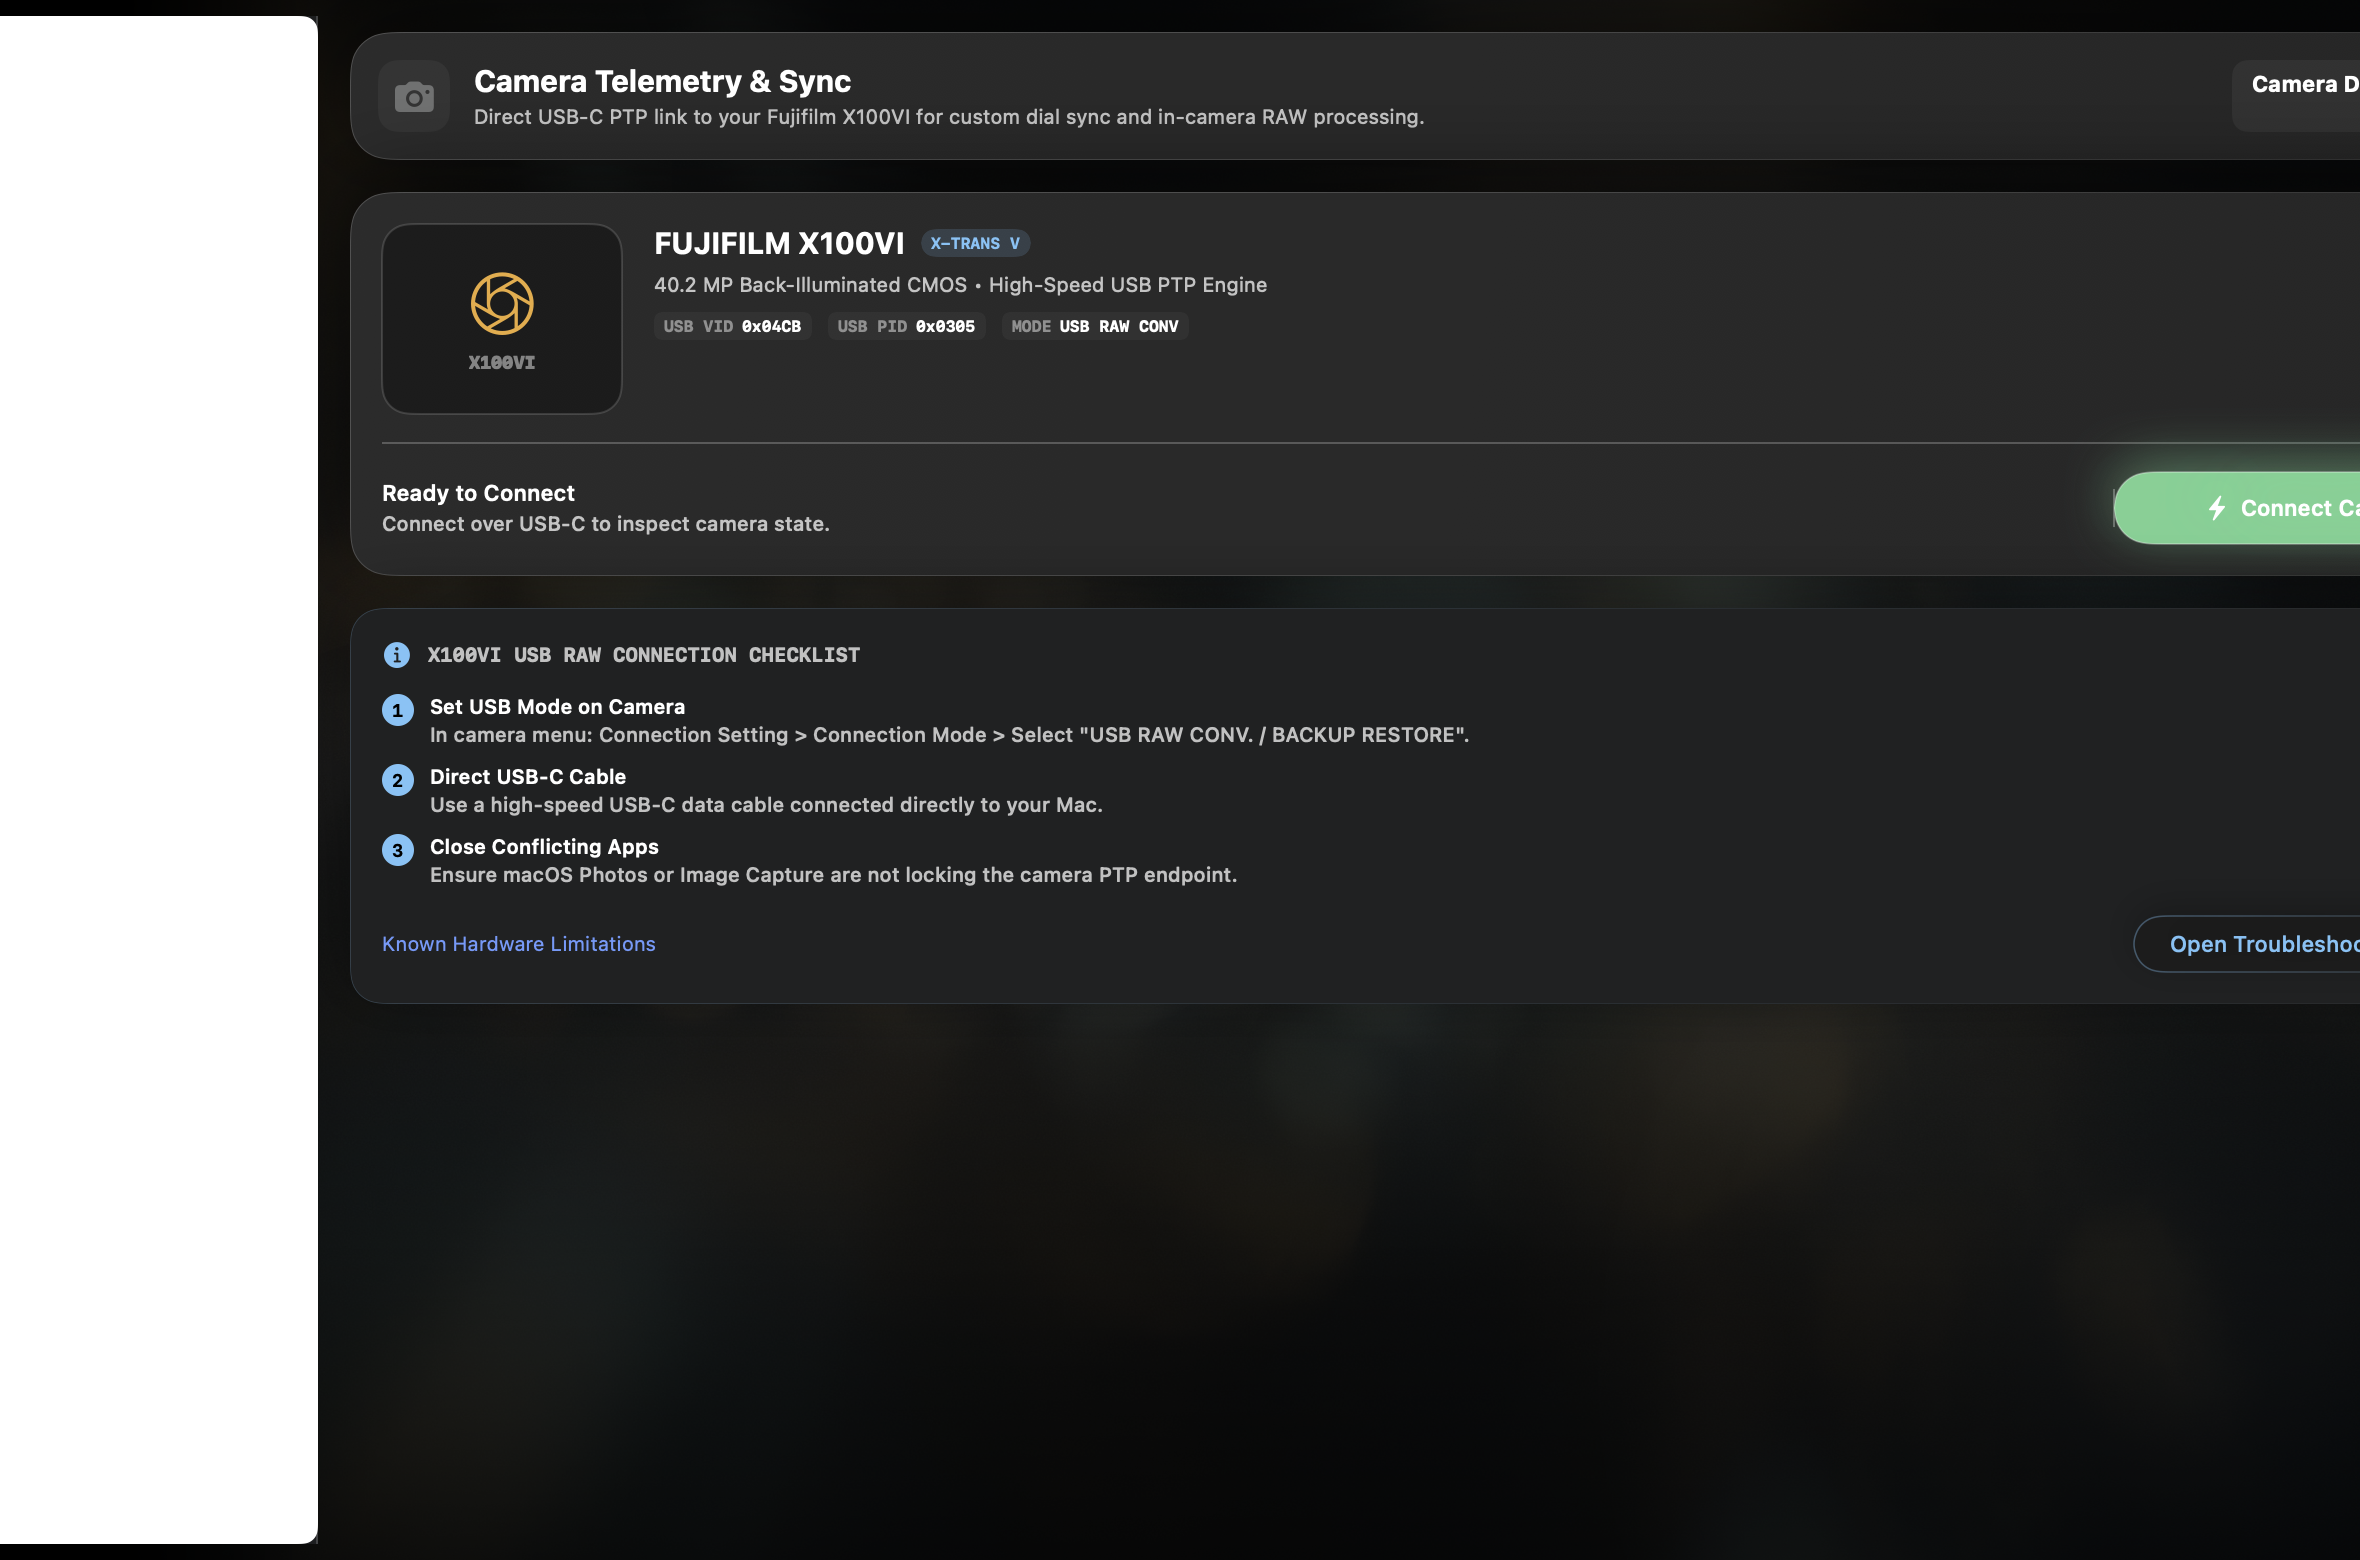
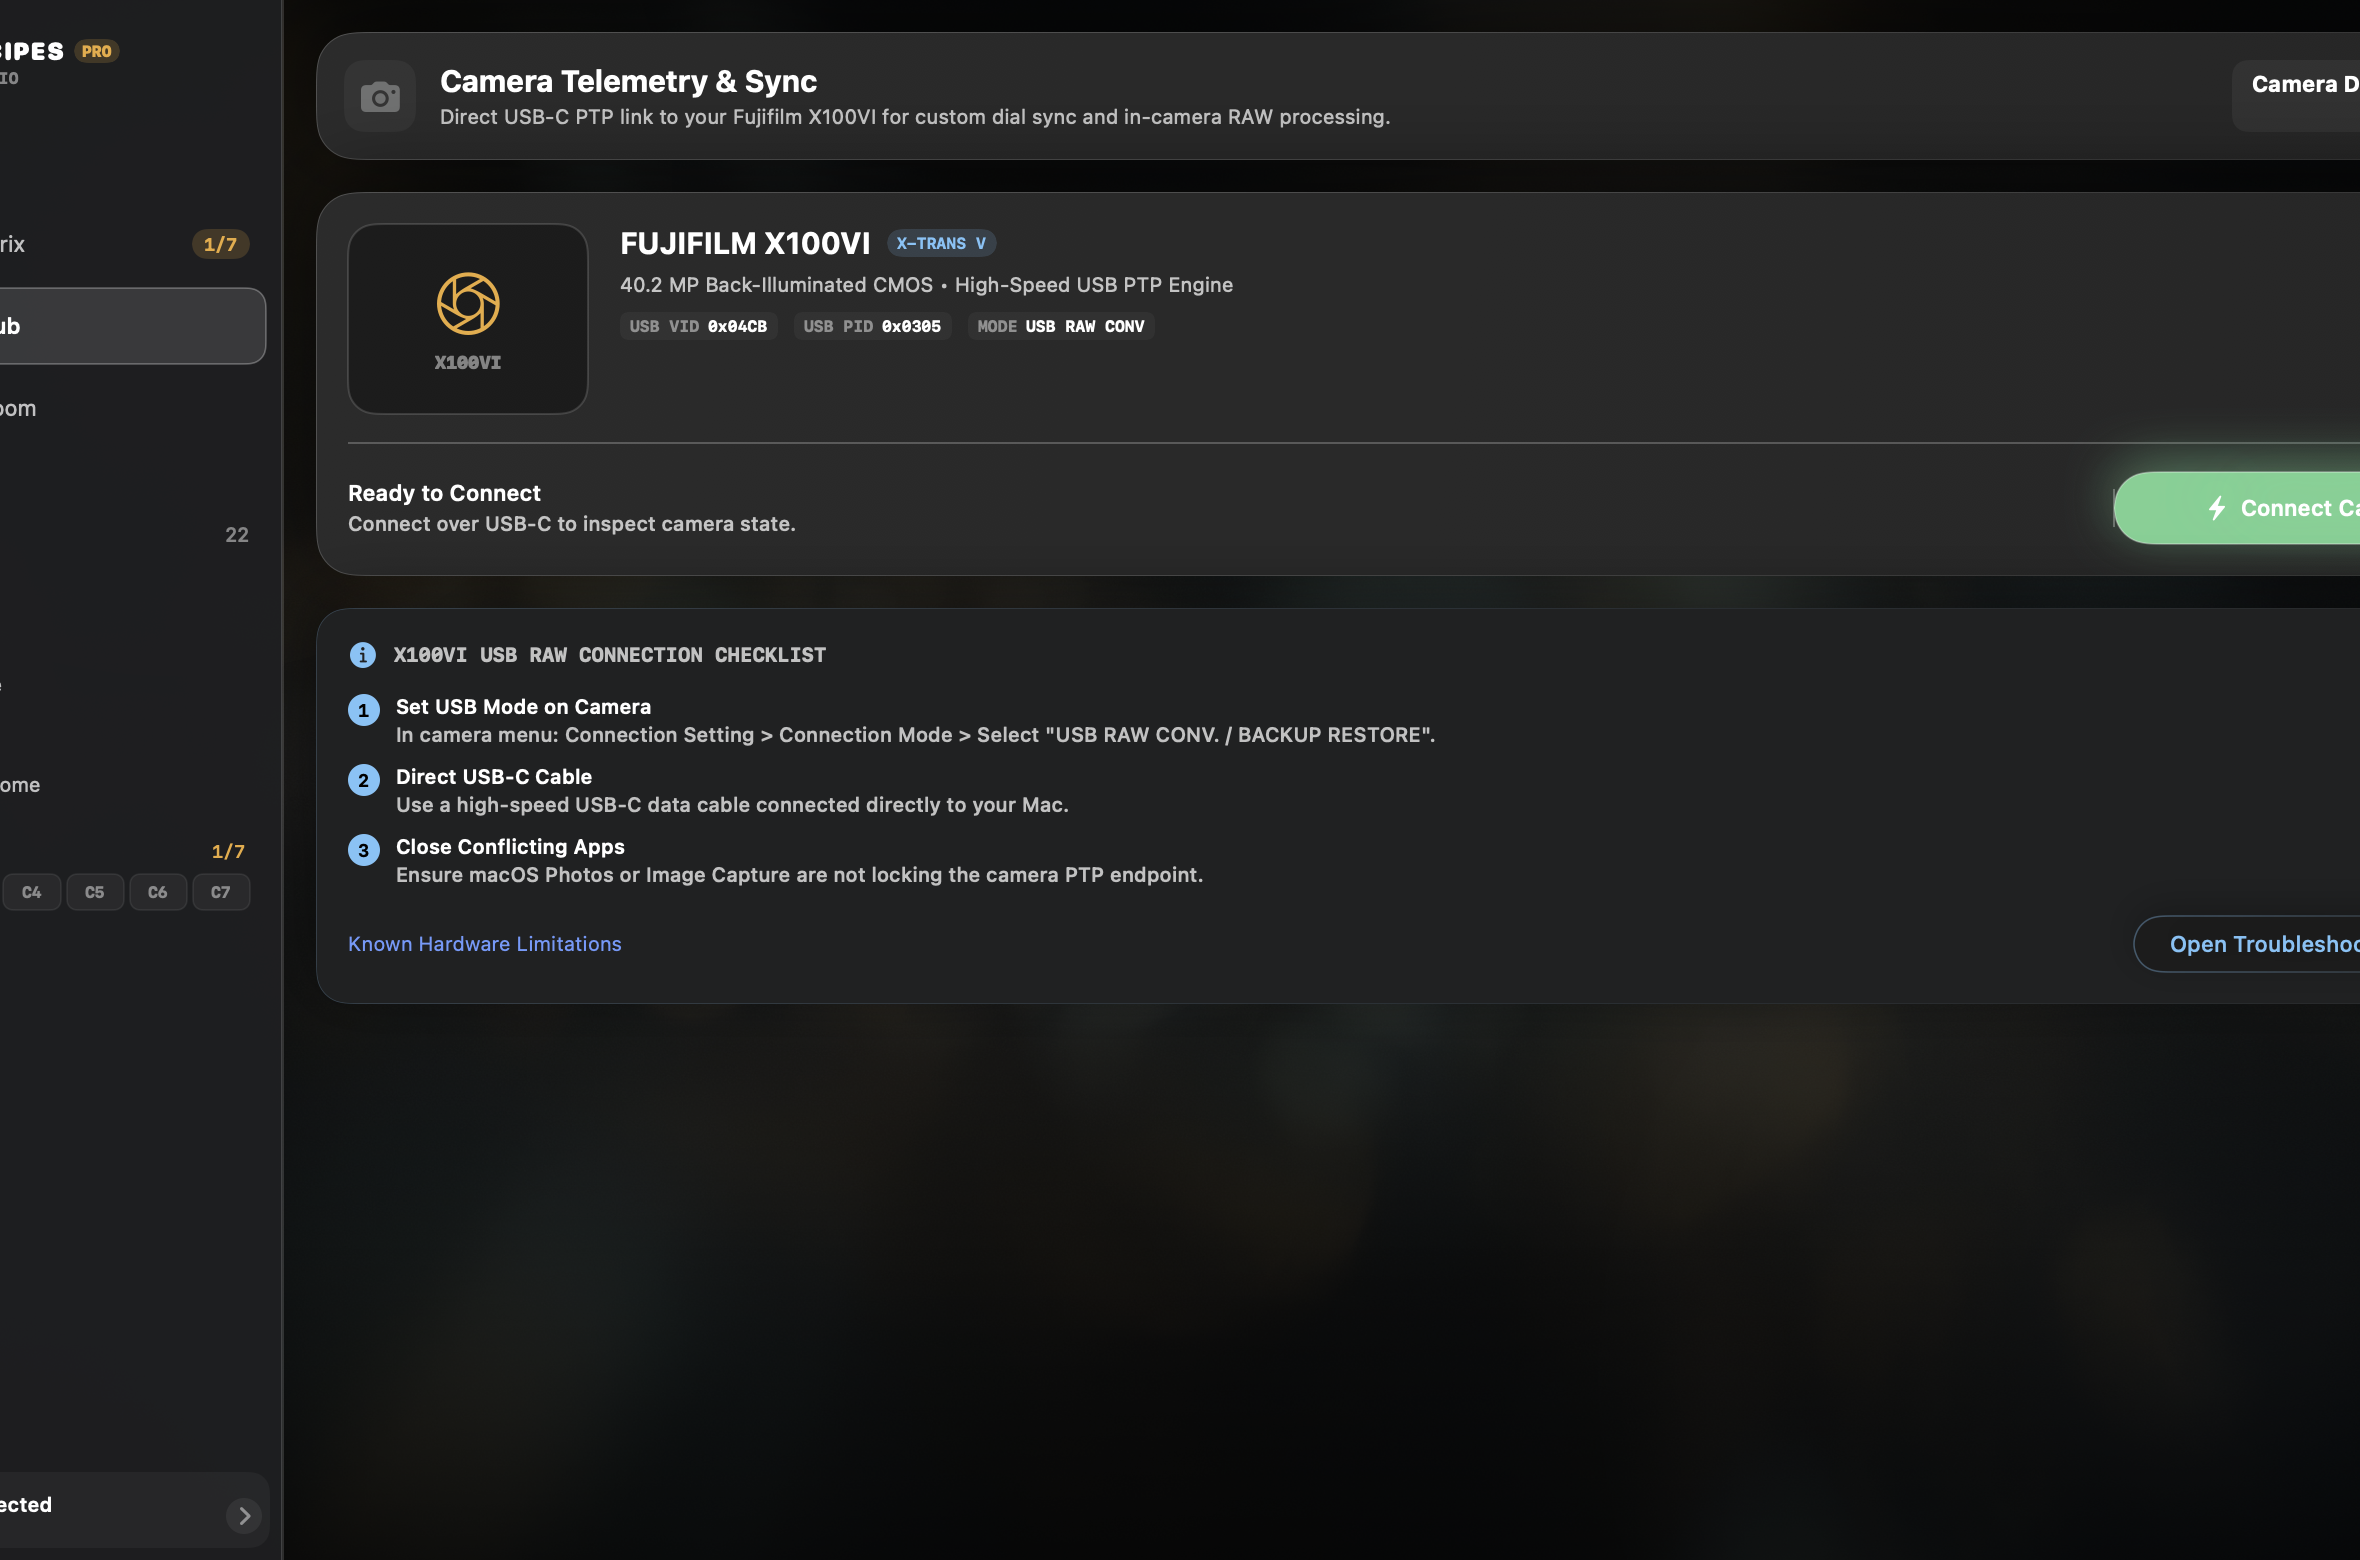
docs: fix offscreen sidebar rendering in UI screenshots

Changed region(s): [[0.0, 0.0, 0.6186, 1.0], [0.1856, 0.1231, 0.5258, 0.2462]]

diff --git a/FujiRecipesMac/macos/Source/SnapshotRenderer.swift b/FujiRecipesMac/macos/Source/SnapshotRenderer.swift
@@ -13,79 +13,64 @@ public enum SnapshotRenderer {
         try? FileManager.default.createDirectory(at: outputDir, withIntermediateDirectories: true)
         
         // 1. Recipes Studio View
-        let recipesView = ZStack {
-            GlassWindowBackground()
-            NavigationSplitView {
-                SidebarView(selection: .constant(.recipes), recipeStore: store, cameraManager: camera)
-                    .navigationSplitViewColumnWidth(min: 240, ideal: 260, max: 280)
-            } detail: {
-                RecipeListView(store: store)
-            }
-            .navigationSplitViewStyle(.balanced)
-            .tint(Theme.fujiAmber)
+        let recipesWindow = makeWindow(tab: .recipes, store: store, camera: camera) {
+            RecipeListView(store: store)
         }
-        .preferredColorScheme(.dark)
-        .frame(width: 1180, height: 780)
-        
-        renderHostingView(recipesView, to: outputDir.appendingPathComponent("recipes_view.png"), size: CGSize(width: 1180, height: 780))
+        renderWindow(recipesWindow, to: outputDir.appendingPathComponent("fuji_recipes_studio.png"), size: CGSize(width: 1180, height: 780))
         
         // 2. Loadouts Matrix View
-        let loadoutsView = ZStack {
-            GlassWindowBackground()
-            NavigationSplitView {
-                SidebarView(selection: .constant(.loadouts), recipeStore: store, cameraManager: camera)
-                    .navigationSplitViewColumnWidth(min: 240, ideal: 260, max: 280)
-            } detail: {
-                LoadoutsView(loadouts: store.loadouts)
-            }
-            .navigationSplitViewStyle(.balanced)
-            .tint(Theme.fujiAmber)
+        let loadoutsWindow = makeWindow(tab: .loadouts, store: store, camera: camera) {
+            LoadoutsView(loadouts: store.loadouts)
         }
-        .preferredColorScheme(.dark)
-        .frame(width: 1180, height: 780)
-        
-        renderHostingView(loadoutsView, to: outputDir.appendingPathComponent("loadouts_view.png"), size: CGSize(width: 1180, height: 780))
+        renderWindow(loadoutsWindow, to: outputDir.appendingPathComponent("fuji_custom_dial_matrix.png"), size: CGSize(width: 1180, height: 780))
         
         // 3. Camera Hub View
-        let cameraView = ZStack {
-            GlassWindowBackground()
-            NavigationSplitView {
-                SidebarView(selection: .constant(.camera), recipeStore: store, cameraManager: camera)
-                    .navigationSplitViewColumnWidth(min: 240, ideal: 260, max: 280)
-            } detail: {
-                CameraConnectionView(manager: camera, loadouts: store.loadouts)
-            }
-            .navigationSplitViewStyle(.balanced)
-            .tint(Theme.fujiAmber)
+        let cameraWindow = makeWindow(tab: .camera, store: store, camera: camera) {
+            CameraConnectionView(manager: camera, loadouts: store.loadouts)
         }
-        .preferredColorScheme(.dark)
-        .frame(width: 1180, height: 780)
-        
-        renderHostingView(cameraView, to: outputDir.appendingPathComponent("camera_hub_view.png"), size: CGSize(width: 1180, height: 780))
+        renderWindow(cameraWindow, to: outputDir.appendingPathComponent("fuji_camera_telemetry_hub.png"), size: CGSize(width: 1180, height: 780))
         
         // 4. RAF Darkroom View
-        let darkroomView = ZStack {
+        let darkroomWindow = makeWindow(tab: .darkroom, store: store, camera: camera) {
+            RAFDarkroomView(manager: camera)
+        }
+        renderWindow(darkroomWindow, to: outputDir.appendingPathComponent("fuji_in_camera_darkroom.png"), size: CGSize(width: 1180, height: 780))
+    }
+    
+    private static func makeWindow<Content: View>(
+        tab: AppTab,
+        store: RecipeStore,
+        camera: CameraManager,
+        @ViewBuilder detail: () -> Content
+    ) -> some View {
+        ZStack {
             GlassWindowBackground()
-            NavigationSplitView {
-                SidebarView(selection: .constant(.darkroom), recipeStore: store, cameraManager: camera)
-                    .navigationSplitViewColumnWidth(min: 240, ideal: 260, max: 280)
-            } detail: {
-                RAFDarkroomView(manager: camera)
+            
+            HStack(spacing: 0) {
+                SidebarView(
+                    selection: .constant(tab),
+                    recipeStore: store,
+                    cameraManager: camera
+                )
+                .frame(width: 250)
+                
+                Rectangle()
+                    .fill(Theme.specularBorder)
+                    .frame(width: 1)
+                
+                detail()
+                    .frame(maxWidth: .infinity, maxHeight: .infinity)
             }
-            .navigationSplitViewStyle(.balanced)
-            .tint(Theme.fujiAmber)
         }
         .preferredColorScheme(.dark)
         .frame(width: 1180, height: 780)
-        
-        renderHostingView(darkroomView, to: outputDir.appendingPathComponent("darkroom_view.png"), size: CGSize(width: 1180, height: 780))
+        .tint(Theme.fujiAmber)
     }
     
-    private static func renderHostingView<V: View>(_ view: V, to url: URL, size: CGSize) {
+    private static func renderWindow<V: View>(_ view: V, to url: URL, size: CGSize) {
         let hostingView = NSHostingView(rootView: view)
         hostingView.frame = NSRect(origin: .zero, size: size)
         
-        // Create an offscreen window to guarantee layout, appearance, and subview hierarchy rendering
         let window = NSWindow(
             contentRect: NSRect(origin: .zero, size: size),
             styleMask: [.borderless],
